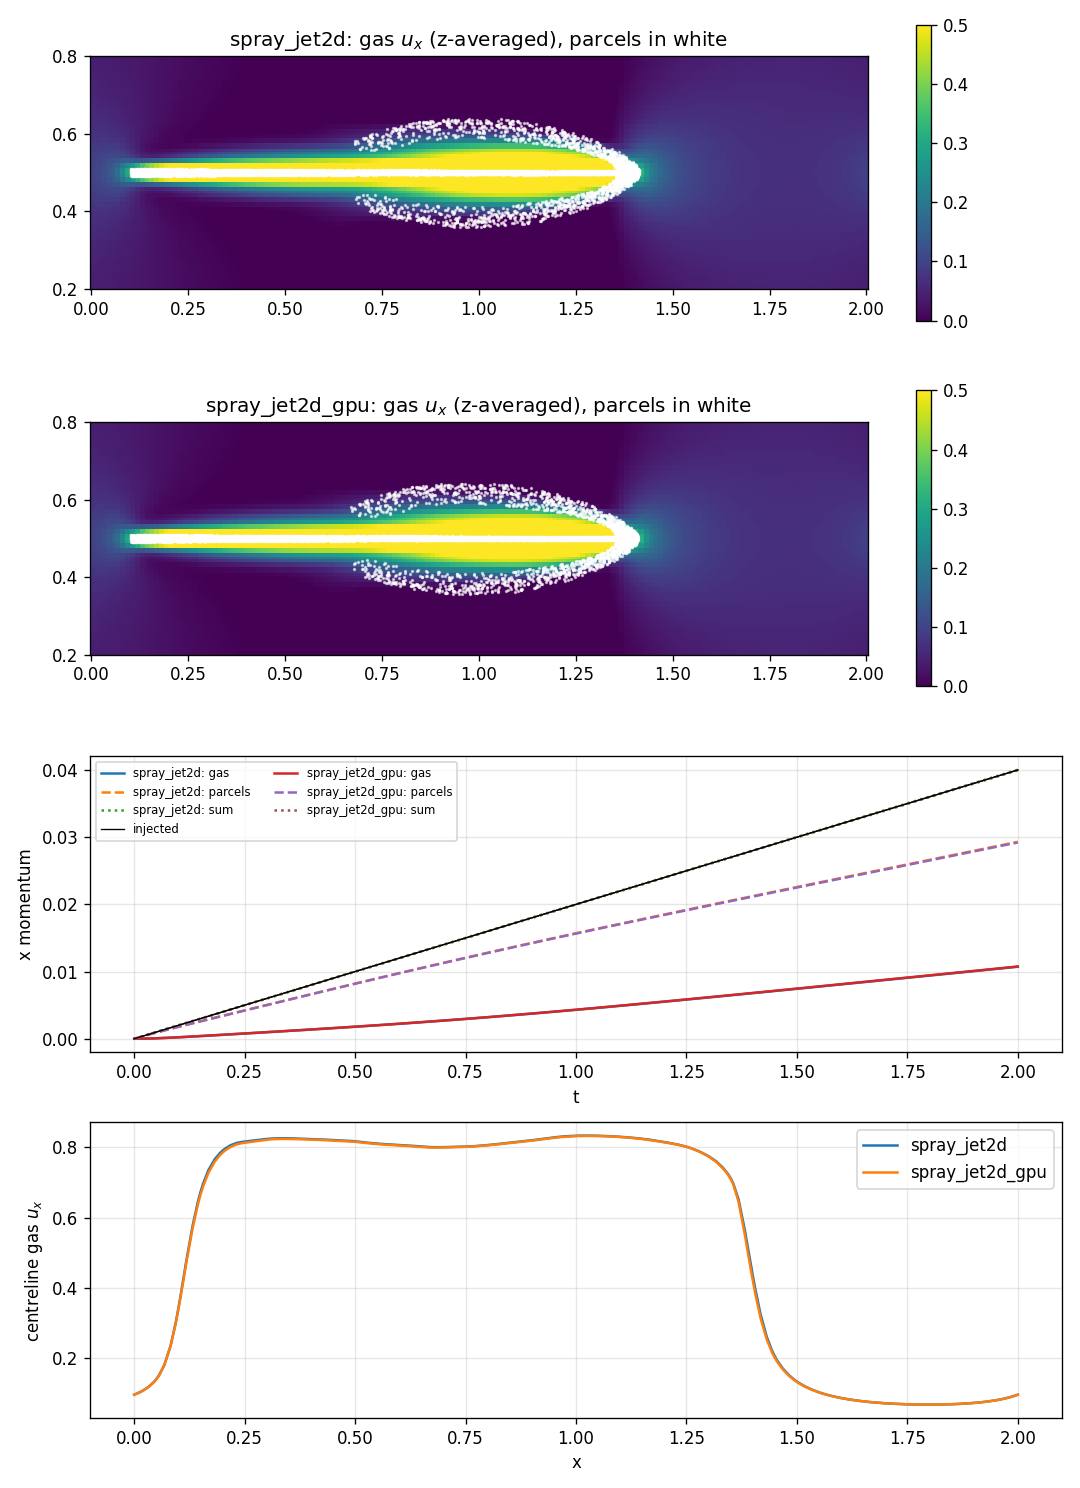
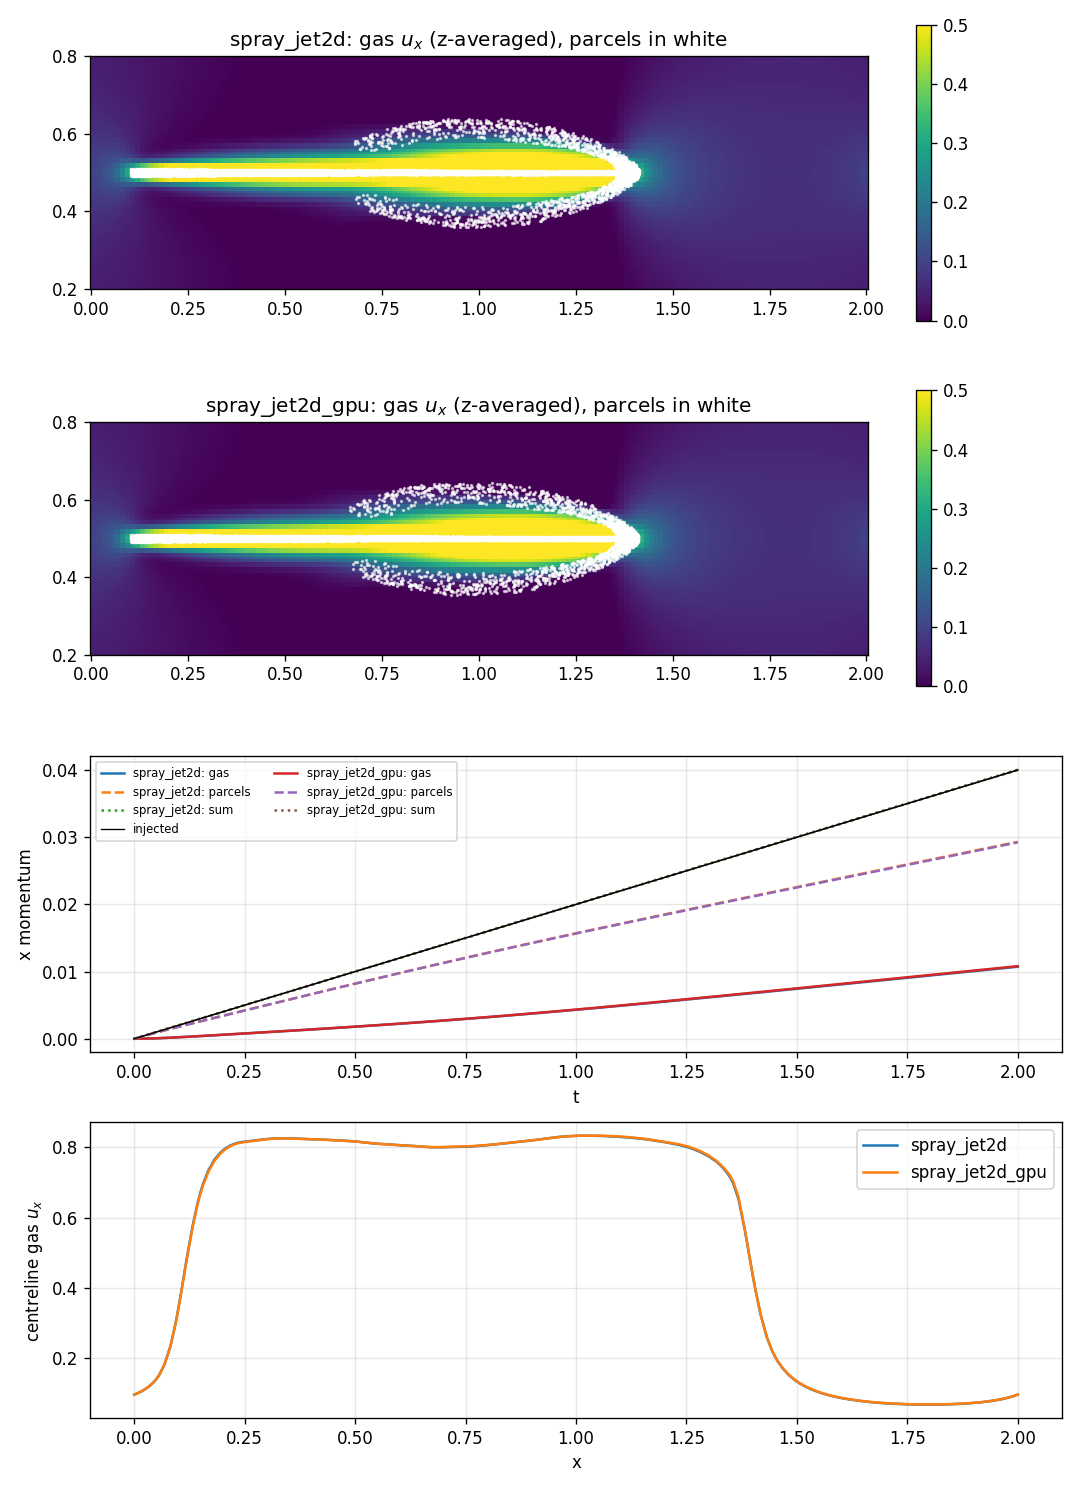
Fix the three findings from the jet verification
- device path: own SSP-RK3 through lpm_t::setUserODESolver (lpm_t's RK3/RK4
  feed the start-of-step state to the stages; upstream patch kept in
  patches/nekRS/), with the force on the fluid accumulated at the stage
  weights (prop fAcc). Droplet check 1.5e-5 -> 7e-8 of U0; settling momentum
  drift -5.6e-3 -> -1.2e-3; the two jet paths now agree to 0.7 %
- ppiclF: abort with a message instead of looping forever when a periodic
  length is below the filter cutoff (patch 0005)
- jet cases: injected mass follows the actual time step

diff --git a/src/elgpu.hpp b/src/elgpu.hpp
@@ -46,12 +46,12 @@ struct Config {
   bool qtl = true;
   bool qtlFromFlux = true; // d phi/dt from the projected volume flux, else finite difference
   bool zeroMeanDiv = true;
-  // lpm_t's RK3 and RK4 evaluate the intermediate stages with the start-of-
-  // step state (nekRS v26 lpm.cpp, integrateRK3/4: o_y_ instead of
-  // o_ytmp_), which makes them first order for a velocity-dependent RHS;
-  // RK2 is implemented correctly. Verified in cases/spray_jet2d (single
-  // droplet vs the drag ODE).
-  int rkOrder = 2;
+  // Time integrator: 3 = our own SSP-RK3 through lpm_t's user-ODE hook
+  // (default); 1, 2 = lpm_t's RK1/RK2. lpm_t's own RK3/RK4 evaluate the
+  // intermediate stages with the start-of-step state (nekRS v26 lpm.cpp,
+  // patches/nekRS/0001-lpm-rk-stage-state.patch), which makes them first
+  // order for a velocity-dependent RHS, so they are not offered here.
+  int rkOrder = 3;
 };
 
 struct Totals {
@@ -127,8 +127,14 @@ public:
     }
 
     particles = std::make_unique<lpm_t>(mesh, nrs->dt, 0.01, 5e-13);
+    nekrsCheck(cfg.rkOrder < 1 || cfg.rkOrder > 3, comm(), EXIT_FAILURE, "rkOrder %d not supported\n", cfg.rkOrder);
     particles->setSolver("RK");
     particles->rkOrder(cfg.rkOrder);
+    if (cfg.rkOrder == 3) {
+      particles->setUserODESolver([](lpm_t *lpm, double t0, double tf, int, const deviceMemory<dfloat> &o_y, void *ud, deviceMemory<dfloat> &) {
+        static_cast<Coupling *>(ud)->ssprk3(lpm, tf - t0, o_y);
+      });
+    }
     particles->setVerbosity(lpm_t::VerbosityLevel::None);
     particles->addInterpField("fluid_velocity", mesh->dim, nrs->fluid->fieldOffset, nrs->fluid->o_U);
     particles->addVariable(mesh->dim, "velocity");
@@ -136,6 +142,7 @@ public:
     particles->addProp("rhop");
     particles->addProp("gid");
     particles->addProp("np"); // droplets per parcel
+    particles->addProp(3, "fAcc", false); // RK-weighted force on the fluid over the step (ssprk3)
     particles->addUserData(this);
     particles->setUserRHS([](lpm_t *lpm, double, const deviceMemory<dfloat> &o_y, void *ud, deviceMemory<dfloat> &o_ydot) {
       static_cast<Coupling *>(ud)->rhs(lpm, o_y, o_ydot);
@@ -161,9 +168,8 @@ public:
     pack(x, v, dp, rhop, weight, y0, prop);
     particles->initialize(n, t0, y0);
     if (n) {
-      const int np = particles->nProps();
-      for (int k = 0; k < np; k++) {
-        auto name = std::vector<std::string>{"dp", "rhop", "gid", "np"}[k];
+      for (const char *name : {"dp", "rhop", "gid", "np"}) {
+        const int k = particles->propId(name);
         particles->setProp(name, deviceMemory<dfloat>(std::vector<dfloat>(prop.begin() + k * n, prop.begin() + (k + 1) * n)));
       }
     }
@@ -188,6 +194,7 @@ public:
     if (tstep == 0) {
       return;
     }
+    fAccValid = false;
     particles->integrate(time);
     wrap();
     particles->migrate();
@@ -264,6 +271,8 @@ private:
   static constexpr int nAcc = 7; // F(3), vol, vol*v(3)
   occa::memory o_one, o_acc, o_FU, o_div, o_phifLast;
   occa::memory o_q, o_el, o_r, o_Up; // per particle: (F, vol), element, reference coords, fluid velocity
+  occa::memory o_ytmp, o_k;            // SSP-RK3 scratch
+  bool fAccValid = false;              // fAcc holds this step's RK-weighted force
 
   static MPI_Comm comm() { return platform->comm.mpiComm(); }
 
@@ -296,6 +305,7 @@ private:
       prop[i + particles->propId("rhop") * n] = rhop[i];
       prop[i + particles->propId("gid") * n] = nElGlobal + gid0 + i;
       prop[i + particles->propId("np") * n] = weight.empty() ? 1.0 : weight[i];
+      // fAcc starts at zero (prop already zero-filled)
     }
     long long total = n;
     MPI_Allreduce(MPI_IN_PLACE, &total, 1, MPI_LONG_LONG, MPI_SUM, comm());
@@ -322,6 +332,69 @@ private:
               lpm->getProp("rhop"),
               lpm->getInterpField("fluid_velocity"),
               o_ydot);
+  }
+
+  // SSP-RK3 (Shu-Osher) on the particle state, the fluid field being the
+  // one lpm_t extrapolated to the start of the step:
+  //   y1 = y + dt f(y);  y2 = 3/4 y + 1/4 (y1 + dt f(y1));
+  //   y  = 1/3 y + 2/3 (y2 + dt f(y2))
+  // Stage positions are handed to the interpolator so that the fluid
+  // velocity is taken where the stage state is.
+  void ssprk3(lpm_t *lpm, double dt, const deviceMemory<dfloat> &o_yIn)
+  {
+    deviceMemory<dfloat> o_y(o_yIn); // same device buffer, writable handle
+    const int n = lpm->numParticles();
+    const int off = lpm->fieldOffset();
+    const int nd = lpm->nDOFs();
+    const size_t len = static_cast<size_t>(nd) * std::max(off, 1);
+    if (!o_ytmp.isInitialized() || o_ytmp.length() < len) {
+      o_ytmp = platform->device.malloc<dfloat>(len);
+      o_k = platform->device.malloc<dfloat>(len);
+    }
+    deviceMemory<dfloat> o_ytmp_(o_ytmp), o_k_(o_k);
+    auto findAt = [&](const occa::memory &o_state) {
+      occa::memory o_x, o_yy, o_z;
+      if (off) {
+        o_x = o_state.slice(0 * off, n);
+        o_yy = o_state.slice(1 * off, n);
+        o_z = o_state.slice(2 * off, n);
+      }
+      lpm->interpolator().setPoints(o_x, o_yy, o_z);
+      lpm->interpolator().find(lpm_t::VerbosityLevel::None);
+    };
+
+    // the force on the fluid is accumulated with the same stage weights the
+    // particle update uses (1/6, 1/6, 2/3), so that what the fluid receives
+    // is what the parcels lose; fAcc is a prop and migrates with the parcel
+    auto o_fAcc = lpm->getProp("fAcc");
+    auto accumulate = [&](const occa::memory &o_state, double w, bool first) {
+      if (!o_q.isInitialized() || o_q.length() < static_cast<size_t>(nAcc * std::max(off, 1))) {
+        o_q = platform->device.malloc<dfloat>(nAcc * std::max(off, 1));
+      }
+      forceKernel(n, off, lpm->dofId("velocity"), cfg.mu, cfg.rhof, o_state, lpm->getProp("dp"), lpm->getProp("np"), lpm->getInterpField("fluid_velocity"), o_q);
+      platform->linAlg->axpbyMany(n, 3, off, w, o_q, first ? 0.0 : 1.0, o_fAcc);
+    };
+
+    rhs(lpm, o_y, o_k_); // interpolator holds the start-of-step points
+    if (n) {
+      accumulate(o_y, 1.0 / 6.0, true);
+      platform->linAlg->axpbyzMany(n, nd, off, 1.0, o_y, dt, o_k, o_ytmp); // y1
+    }
+    findAt(o_ytmp);
+    rhs(lpm, o_ytmp_, o_k_);
+    if (n) {
+      accumulate(o_ytmp, 1.0 / 6.0, false);
+      platform->linAlg->axpbyMany(n, nd, off, dt, o_k, 1.0, o_ytmp);           // y1 + dt f(y1)
+      platform->linAlg->axpbyMany(n, nd, off, 0.75, o_y, 0.25, o_ytmp);        // y2
+    }
+    findAt(o_ytmp);
+    rhs(lpm, o_ytmp_, o_k_);
+    if (n) {
+      accumulate(o_ytmp, 2.0 / 3.0, false);
+      platform->linAlg->axpbyMany(n, nd, off, dt, o_k, 1.0, o_ytmp);           // y2 + dt f(y2)
+      platform->linAlg->axpbyMany(n, nd, off, 2.0 / 3.0, o_ytmp, 1.0 / 3.0, o_y);
+    }
+    fAccValid = true;
   }
 
   void wrap()
@@ -412,6 +485,10 @@ private:
     particles->interpolator().eval(3, offset, fluid->o_U, poff, o_Up);
     if (n) {
       forceKernel(n, poff, particles->dofId("velocity"), cfg.mu, cfg.rhof, particles->getDOF("x"), particles->getProp("dp"), particles->getProp("np"), o_Up, o_q);
+      if (fAccValid) {
+        // force from the RK stages instead of the end-of-step state
+        o_q.copyFrom(particles->getProp("fAcc"), 3 * poff);
+      }
 
       // after migrate() every particle is local: findpts' element and
       // reference coordinates are in particle order on the host

diff --git a/cases/spray_jet2d/jet_common.hpp b/cases/spray_jet2d/jet_common.hpp
@@ -33,11 +33,12 @@ struct JetParams {
 // stream is continuous
 struct JetInjector {
   const JetParams &p;
-  double lz, yc, dt;
+  double lz, yc;
   std::mt19937_64 gen{2026};
   std::uniform_real_distribution<double> uni{0.0, 1.0};
 
-  void parcels(std::vector<double> &x, std::vector<double> &v, std::vector<double> &d, std::vector<double> &rho, std::vector<double> &w)
+  // dt: the step just taken, so that the injected mass follows a variable dt
+  void parcels(double dt, std::vector<double> &x, std::vector<double> &v, std::vector<double> &d, std::vector<double> &rho, std::vector<double> &w)
   {
     x.clear(), v.clear(), d.clear(), rho.clear(), w.clear();
     if (platform->comm.mpiRank() != 0) {

diff --git a/docs/design.md b/docs/design.md
@@ -96,7 +96,7 @@ in `patches/ppiclF/`.
 | 4 | Fluid fields are interpolated only at the first RK stage (`FinalizeInterp` resets the counter) | particle RK3 is first order in the fluid velocity seen along the path; for tracers it collapses to forward Euler | by design; fine for drag-dominated inertial particles, revisit for tracer-like particles |
 | 5 | `ProjectParticleGrid` tests every particle against every GLL node of every element in its bin range | with one bin per rank, cost ~ particles × all local nodes (13 s/step for 10k particles, 216 N=5 elements) | `0003-projection-element-loop.patch`: skip elements whose bounding box is beyond the cutoff (bit-identical, 6× faster) |
 | 6 | `ProjectParticleGrid` leaves the element loop (`exit`) at the first element whose lowest bin exceeds the particle's | assumes every element on a rank has a node in that rank's bin; false after 0002, so most elements were skipped (79 % of the force lost on 4 ranks) | `0003`: `cycle` instead of `exit` |
-| 8 | `CreateBin` loops forever (`do while (bins_dx < d2chk)` with `n_bins` already 1) when a periodic direction of the domain is shorter than the filter cutoff | a thin periodic slab with a filter wider than its thickness hangs at start-up with no message | not patched: the ghost logic cannot represent more than one periodic image; keep every periodic length ≥ 2 x cutoff (`spray_jet2d` uses Lz = 0.1 with FWHM 0.04) |
+| 8 | `CreateBin` loops forever (`do while (bins_dx < d2chk)` with `n_bins` already 1) when a periodic direction of the domain is shorter than the filter cutoff | a thin periodic slab with a filter wider than its thickness hangs at start-up with no message | `0005-abort-on-short-periodic-length.patch`: abort with `Periodic length < cutoff, dir`; the ghost logic holds one periodic image, so the limit itself stays (keep every periodic length ≥ 2 x cutoff) |
 | 7 | `CreateGhost` drops a ghost when one was already sent to the same rank, unless the new one is periodic | with periodic bins narrower than twice the cutoff a rank needs both the unshifted and the periodic image; the unshifted one was dropped (1e-4 of the projected force on 4 ranks) | `0004-ghost-periodic-images.patch`: deduplicate on (rank, image position) |
 
 Verification, one-way (`rotation_tracer`, frozen solid-body rotation on the unit-sphere
@@ -172,18 +172,22 @@ gravity, 4 ranks:
 
 | | ppiclF path | device path |
 |---|---|---|
-| single droplet vs drag ODE, max error / U0 | 7e-8 (RK3) | 1.5e-5 (RK2, see §4) |
-| momentum budget at t = 2 (max over the run) | +8.6e-4 (2.8e-3) | -8.9e-4 (3.2e-3) |
+| single droplet vs drag ODE, max error / U0 | 7e-8 (RK3) | 7e-8 (SSP-RK3, see §4) |
+| momentum budget at t = 2 (max over the run) | +8.6e-4 (2.8e-3) | +9.4e-4 (2.8e-3) |
 | fluid budget `P_gas - int FU` | 1.6e-4 | 1.6e-4 |
-| P_gas, P_parcels at t = 2 | 1.0720e-2, 2.9314e-2 | 1.0752e-2, 2.9212e-2 |
-| centreline gas u_x, max | 0.8333 | 0.8323 |
-| centreline difference | — | max 0.0145, rms 0.0030 |
+| P_gas, P_parcels at t = 2 | 1.0720e-2, 2.9314e-2 | 1.0806e-2, 2.9232e-2 |
+| centreline gas u_x, max | 0.8333 | 0.8336 |
+| centreline difference | — | max 0.0055, rms 0.0013 |
 | step time | 1.25 s (10 k parcels) | 0.19 s |
 
 The two implementations (ppiclF's bins, ghosts and Gaussian sum vs `lpm_t`,
-L2 projection and diffusion filter) agree to 0.3 % in momenta and 1.7 % in
+L2 projection and diffusion filter) agree to 0.8 % in momenta and 0.7 % in
 the centreline velocity at the jet head, with the momentum budget closed to
-1e-3 of the injected momentum in both. At dt = 5e-3 both runs blew up at
+1e-3 of the injected momentum in both. With lpm_t's RK2 and the end-of-step
+force the device path gave 1.5e-5 on the droplet check and a centreline
+difference of 0.0145; the RK-weighted force brought the `settling_gpu`
+momentum drift from -5.6e-3 to -1.2e-3 of the gravity impulse (ppiclF path:
+-1.0e-3). At dt = 5e-3 both runs blew up at
 t = 0.5 when the induced gas velocity (0.83 u_jet) pushed the gas CFL past 1:
 nekRS's own advection limit, not the coupling.
 
@@ -254,9 +258,15 @@ stages instead of the stage state `o_ytmp_` (the positions for the fluid
 interpolation *are* the stage positions, only the state handed to the RHS is
 stale). For a velocity-dependent RHS the scheme is then first order: in the
 single-droplet check of `spray_jet2d` the velocity error was 1.9e-3 U0 with
-"RK3" and 1.5e-5 U0 with RK2, which is implemented correctly. `elgpu` uses
-RK2 (`Config::rkOrder = 2`); the ppiclF path's own RK3 gives 7e-8 U0 on the
-same check.
+"RK3" and 1.5e-5 U0 with RK2, which is implemented correctly.
+`patches/nekRS/0001-lpm-rk-stage-state.patch` is the upstream fix (not
+applied to the submodule or the installed nekRS). `elgpu` does not depend on
+it: it integrates with its own SSP-RK3 through `lpm_t::setUserODESolver`
+(`Coupling::ssprk3`, stage positions handed to the interpolator), which gives
+7e-8 U0 on the same check, and accumulates the force on the fluid with the
+same stage weights (prop `fAcc`, migrates with the parcel), so the fluid
+receives what the parcels lose. `Config::rkOrder = 1, 2` fall back to
+lpm_t's own integrators with the end-of-step force.
 
 ### Not there yet
 
@@ -266,9 +276,7 @@ contact distance of a rank's element boundary), IBM markers (the same deposit
 kernel spreads marker forces; the body reduction is a segmented sum over
 marker ids), and walls. The Gaussian filter would be cheaper as one implicit
 Helmholtz solve with nekRS's elliptic solver than as ~60 explicit steps per
-field (7 fields), and the momentum exchange could be made consistent to
-second order by taking the fluid force as the RK-weighted particle drag
-instead of the end-of-step value.
+field (7 fields).
 
 ### Verification (`settling_gpu`)
 
@@ -279,10 +287,8 @@ Against the ppiclF path at t = 0.2: fluid momentum -5.666e-2 vs -5.631e-2
 vs -0.3410 (0.2 %); imposed divergence RMS 1.98e-4 vs 2.01e-4 and the
 solver's divergence error 5.9e-5 vs 6.0e-5. Projection conservation is
 round-off (3e-16) instead of the Gaussian truncation (4.6e-4). The global
-momentum drift is -5.6e-3 of the gravity impulse (ppiclF path: -1.0e-3): the
-force on the fluid is the end-of-step drag while the particle took the
-RK-weighted drag, an O(dt) mismatch that the ppiclF path happens to cancel
-better; the remedy is in "Not there yet".
+momentum drift is -1.2e-3 of the gravity impulse (ppiclF path: -1.0e-3) with
+the RK-weighted force on the fluid; with the end-of-step force it was -5.6e-3.
 
 ### Where the time goes
 

diff --git a/README.md b/README.md
@@ -33,6 +33,7 @@ centre 0.47 d_p from the surface, touching at 0.5 d_p).*
 | `external/ppiclF` | ppiclF `72483db` (last upstream commit), submodule |
 | `external/NekIBM` | NekIBM `9631f97`, submodule; reference only, not built |
 | `patches/ppiclF/` | fixes applied to ppiclF at build time (the submodule stays pristine) |
+| `patches/nekRS/` | upstream fix for `lpm_t`'s RK3/RK4 stage state (for reference; not needed by this repo) |
 | `src/elibm.hpp` | `elibm::Coupling`: EL + IBM coupling for a nekRS UDF (ppiclF, CPU) |
 | `src/elgpu.hpp`, `src/elgpu.okl` | `elgpu::Coupling`: EL particles on the device with `lpm_t` (prototype) |
 | `src/ppiclf_user_elibm.f`, `src/PPICLF_ELIBM.h`, `src/ELIBM.inc` | ppiclF user routines and particle layout for EL + IBM |
@@ -70,7 +71,7 @@ the shared model in `src/`, or the patches change, and always relinks the UDF.
 | `rotation_tracer` | one-way: tracers in a frozen solid-body rotation | positions match ppiclF's discrete solution to 2e-14 on 1–8 ranks |
 | `settling_twoway` | two-way: 10k particles settling in a periodic box, with `qtl` | projection error = Gaussian truncation (3.6e-4); momentum to 1e-3 of the gravity impulse; QTL imposed to nekRS's own divergence error; 1 and 4 ranks identical |
 | `settling_gpu` | `settling_twoway` on the device path (`src/elgpu.hpp`) | matches the ppiclF path to 0.2–0.6 % in momenta and drag, same divergence error; 1 and 4 ranks identical; 8–10x faster per step even on CPU |
-| `spray_jet2d`, `spray_jet2d_gpu` | spray step 1: parcels injected from a slot into quiescent gas, both paths on identical input | single droplet matches the drag ODE (7e-8 / 1.5e-5 of U0); momentum budget closed to 1e-3; the two paths agree to 0.3 % in momenta, 1.7 % in centreline velocity |
+| `spray_jet2d`, `spray_jet2d_gpu` | spray step 1: parcels injected from a slot into quiescent gas, both paths on identical input | single droplet matches the drag ODE to 7e-8 of U0 on both; momentum budget closed to 1e-3; the two paths agree to 0.8 % in momenta, 0.7 % in centreline velocity |
 | `el_ibm_collision` | EL particles fired at a free IBM sphere | no particle enters the sphere, the sphere picks up the cloud's momentum (u 0 → 0.27), total momentum within 0.3 %, IBM slip ≈ 2 % of the body speed |
 
 ![Collision demo summary](docs/img/collision_summary.png)
